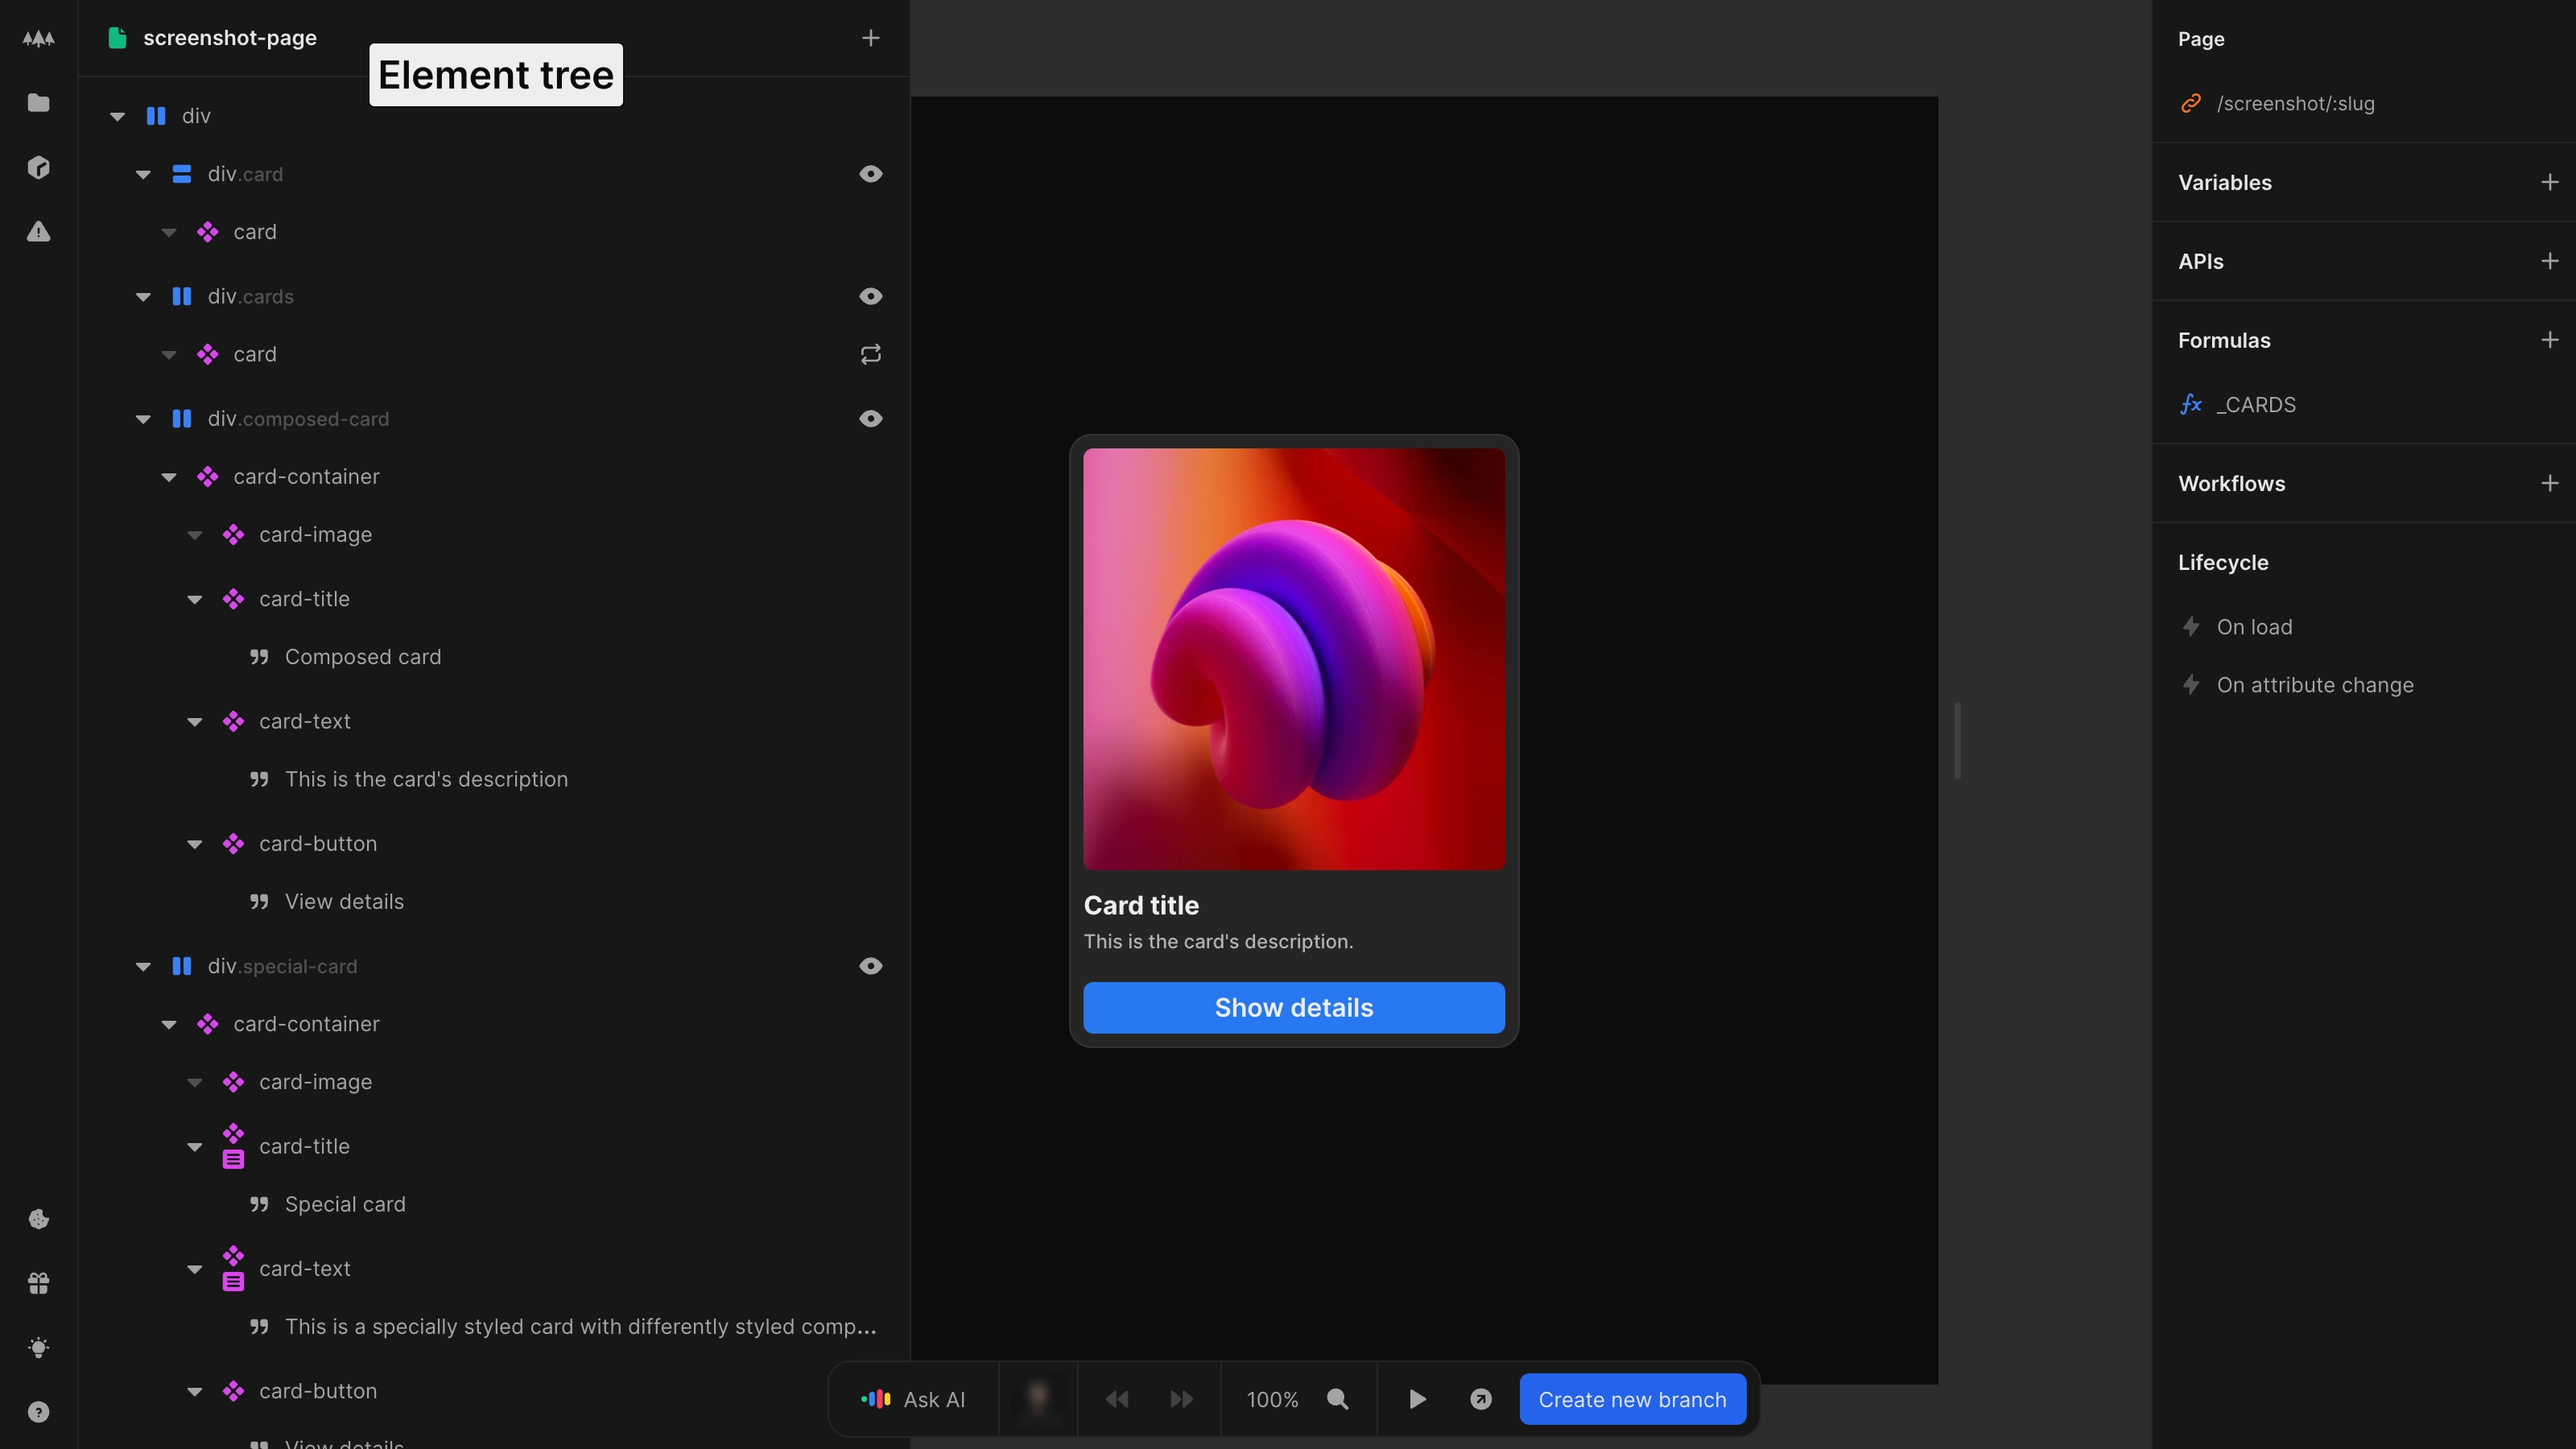
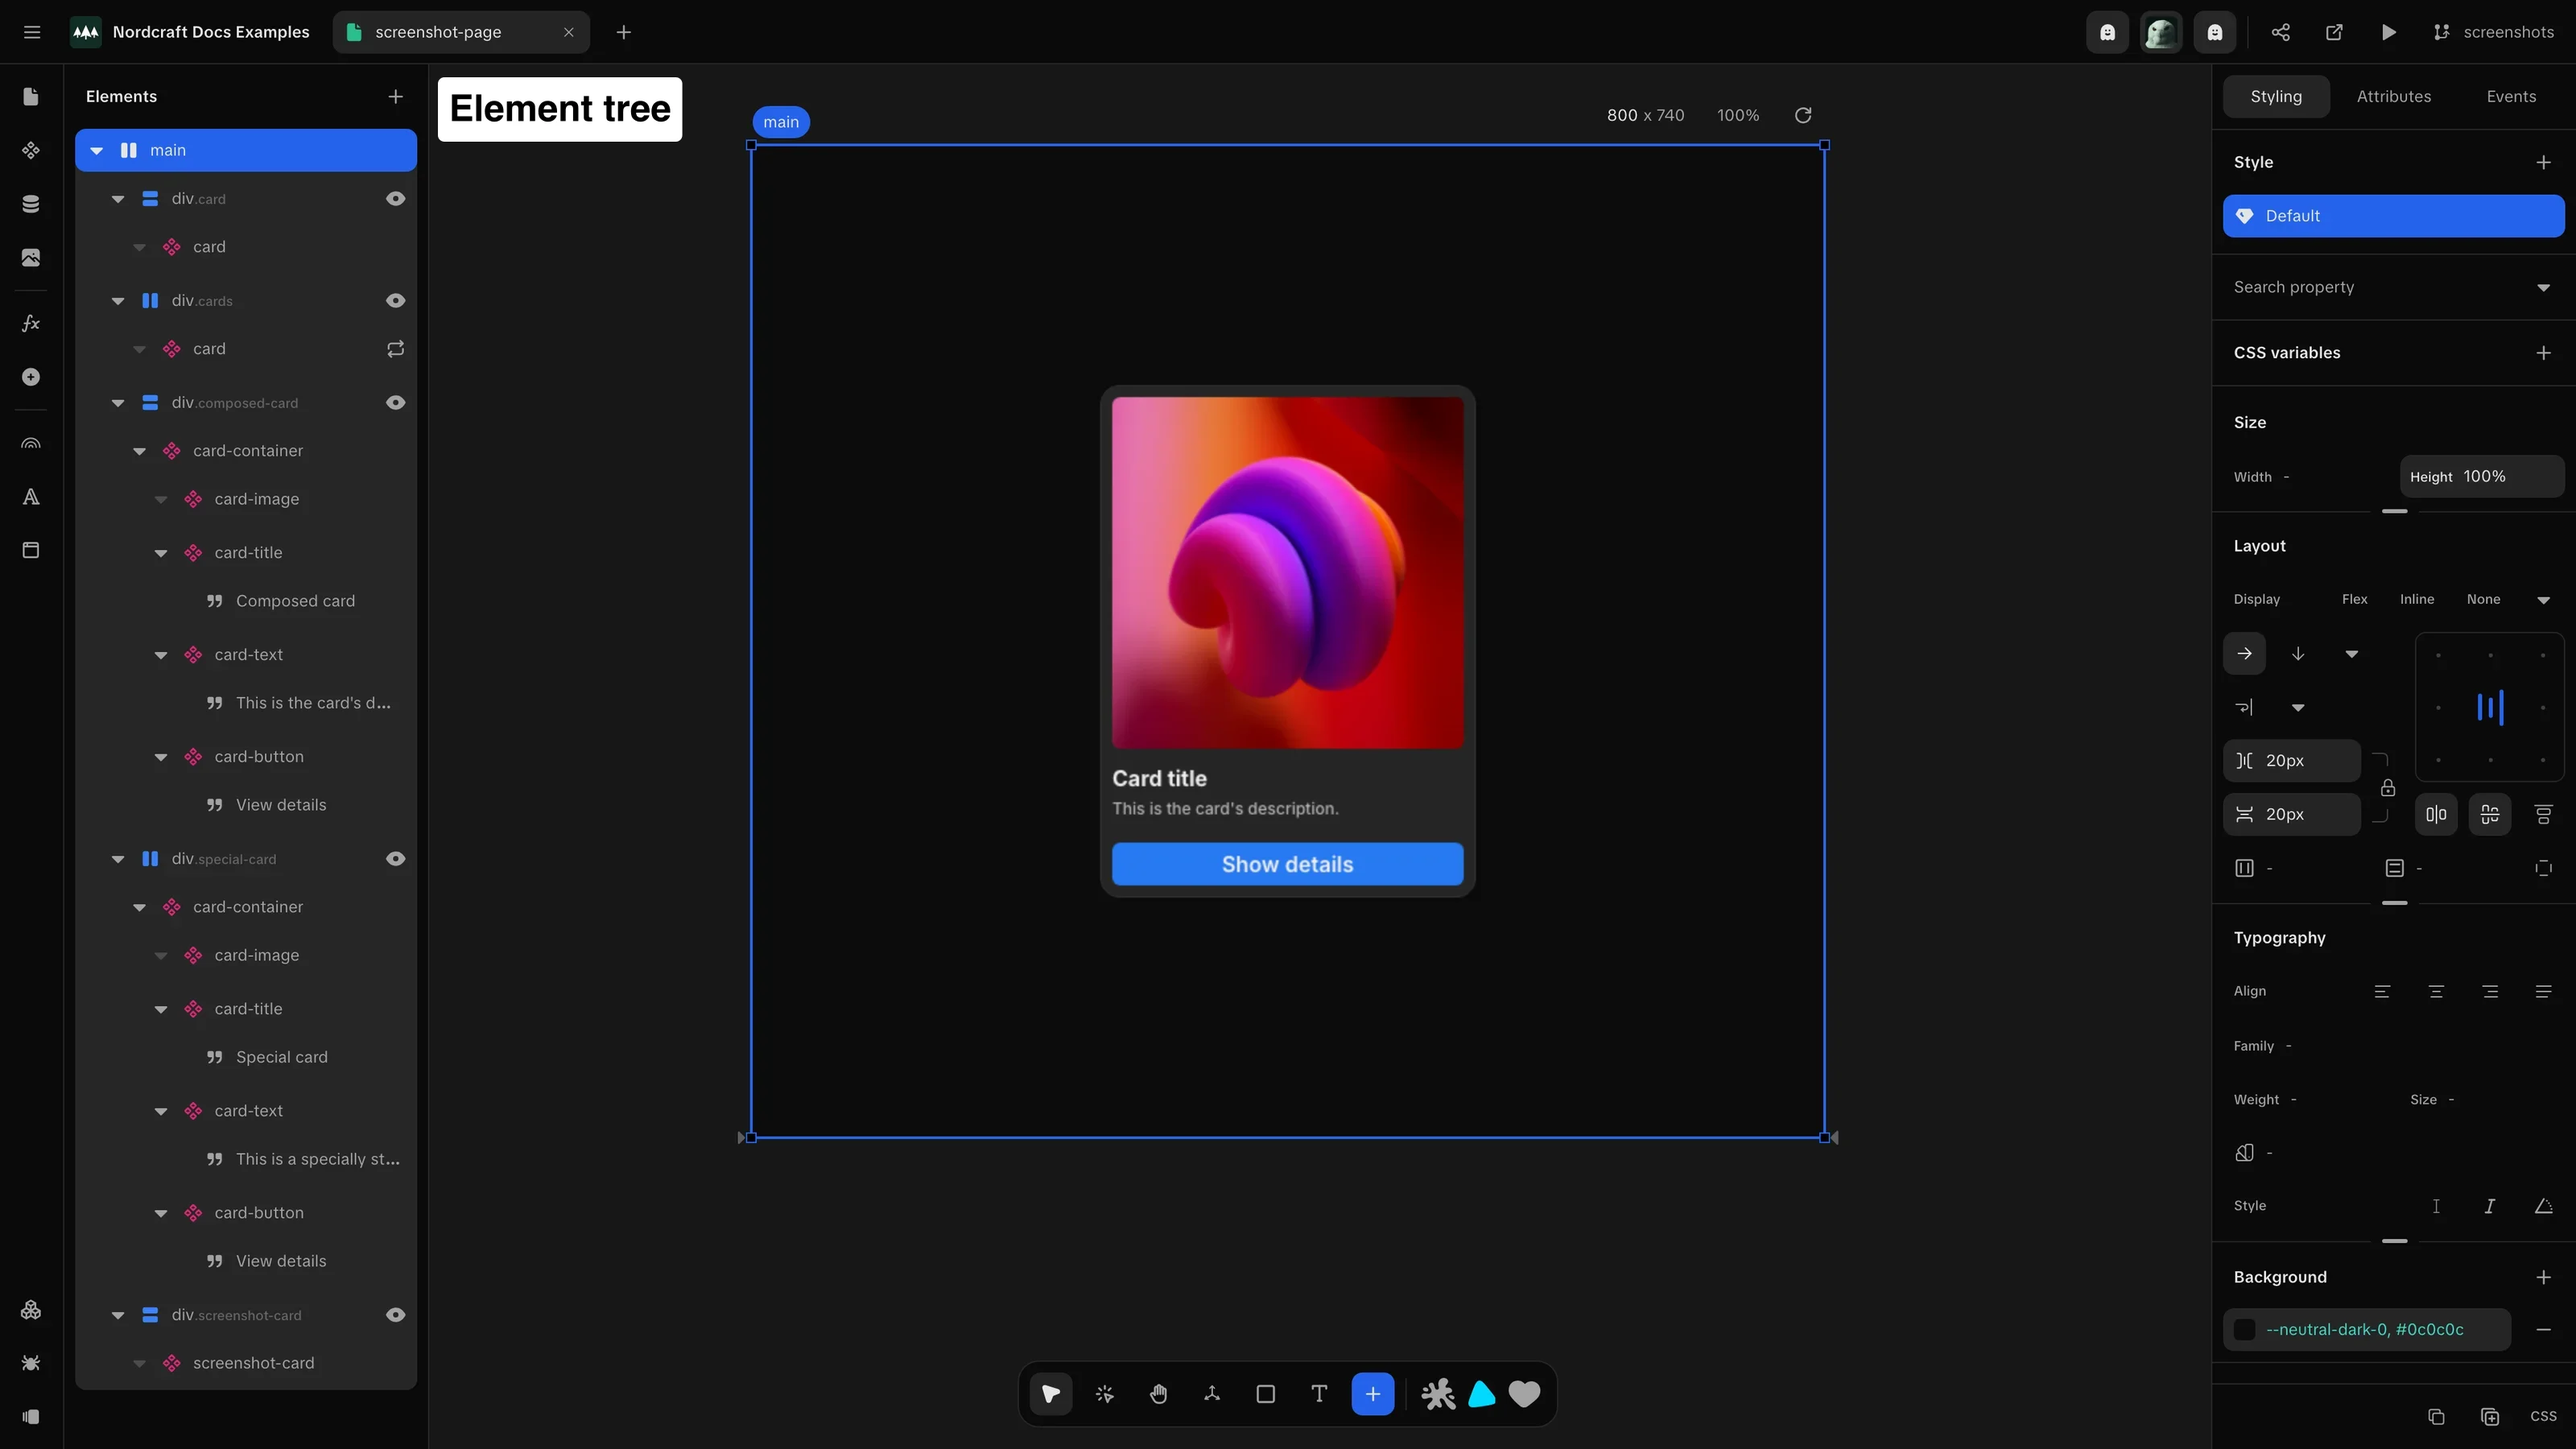
element-tree

diff --git a/docs/the-editor/element-tree/element-tree.screenshot.ts b/docs/the-editor/element-tree/element-tree.screenshot.ts
@@ -1,0 +1,18 @@
+import { defineScreenshot } from '@/scripts/capture-screenshots'
+import type { Page } from 'playwright'
+
+// Placeholder script for element-tree.webp
+export default defineScreenshot({
+  path: '/projects/docs_examples/branches/screenshots/components/screenshot-page?mode=design&selection=nodes.root&rightpanel=style&canvas-tool=select&canvas-width=800',
+  setup: async (page: Page) => {
+    await page.waitForTimeout(500)
+  },
+  annotations: [
+    {
+      type: 'text',
+      x: 136,
+      y: 24,
+      text: 'Element tree'
+    }
+  ],
+})
